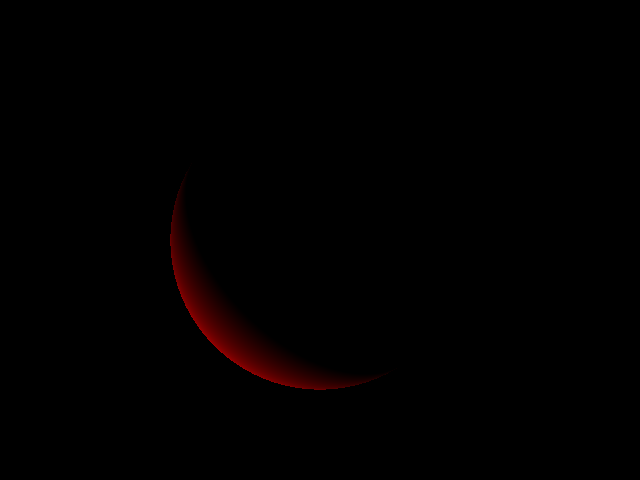
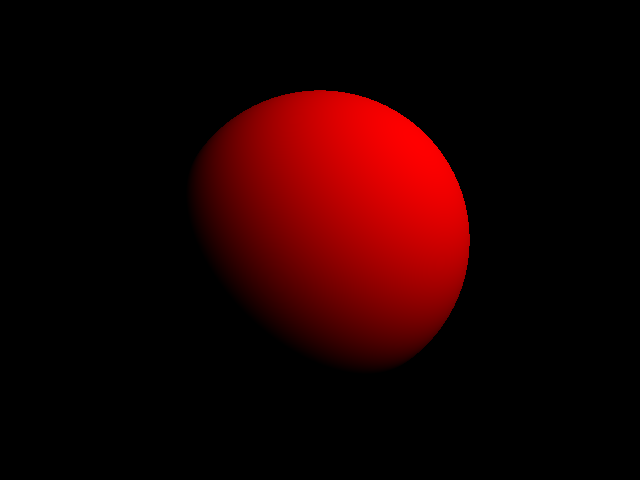
Refactor code structure and remove redundant functions for improved readability and maintainability

Changed region(s): [[0.25, 0.1875, 0.75, 0.8125]]

diff --git a/raytracer/src/main/java/fr/imt/raytracer/scene/DirectionalLight.java b/raytracer/src/main/java/fr/imt/raytracer/scene/DirectionalLight.java
@@ -40,7 +40,7 @@ public class DirectionalLight implements Light {
     public Vector getDirectionFrom(Point p) {
         // On ignore 'p' car la lumière est directionnelle (infinie)
         // On retourne l'inverse de la direction (vecteur * -1)
-        return this.direction.multiply(-1.0);
+        return this.direction;
     }
 
     // Getter spécifique à la lumière directionnelle (optionnel pour l'interface Light mais utile)

diff --git a/README.md b/README.md
@@ -15,7 +15,8 @@ Ce dépôt contient deux projets Maven distincts :
 * **Jalon 1 - Calcul vectoriel : Terminé.** Les classes de base (`Point`, `Vector`, `Color`) sont en place et entièrement validées par 19 tests unitaires JUnit 5.
 * **Jalon 2 - Lecture du fichier de scène : Terminé.** Le `SceneFileParser` est capable de lire et de comprendre les fichiers `.scene`, transformant le texte en une structure d'objets Java.
 * **Jalon 3 - Premières images : Terminé.** Le moteur génère les 5 images de test (`tp31` à `tp35`) et elles sont validées à 100% (`OK`) par le comparateur.
-* **Jalon 4 - Calcul de la couleur d'un point. Prochaine étape.**
+* **Jalon 4 - Calcul de la couleur d'un point. Terminé.** L'éclairage diffus (Lambert) est implémenté et validé par les tests `tp4X`.
+* **Jalon 5 - Ombres et Phong : Prochaine étape.**
 
 ## Comment utiliser ?
 
@@ -123,8 +124,8 @@ C'est la méthode principale pour valider le Jalon 3. Le fichier `launch.json` e
 
 3. Dans le menu déroulant, sélectionnez `Étape 1: RENDER tp31` et appuyez sur F5 (ou le bouton Play).
 
-4. Quand le rendu est terminé, sélectionnez `Étape 2: COMPARE tp31` et appuyez sur F5.
+4. Quand le rendu est terminé, sélectionnez `Étape 2: RENDER tp41-dir` et appuyez sur F5.
 
-5. La console de débogage doit afficher `OK`.
+5. La console de débogage doit afficher `OK` pour tous les tests.
 
-6. Répétez ce processus pour tous les tests (`tp32`, `tp33`, `tp34`, `tp35`). Si tous affichent `OK`, le Jalon 3 est validé.
+6. Répétez ce processus pour tous les tests (`tp41-point`, `tp42-dir`, etc). Si tous affichent `OK`, les jalons 3 et 4 sont validés.
